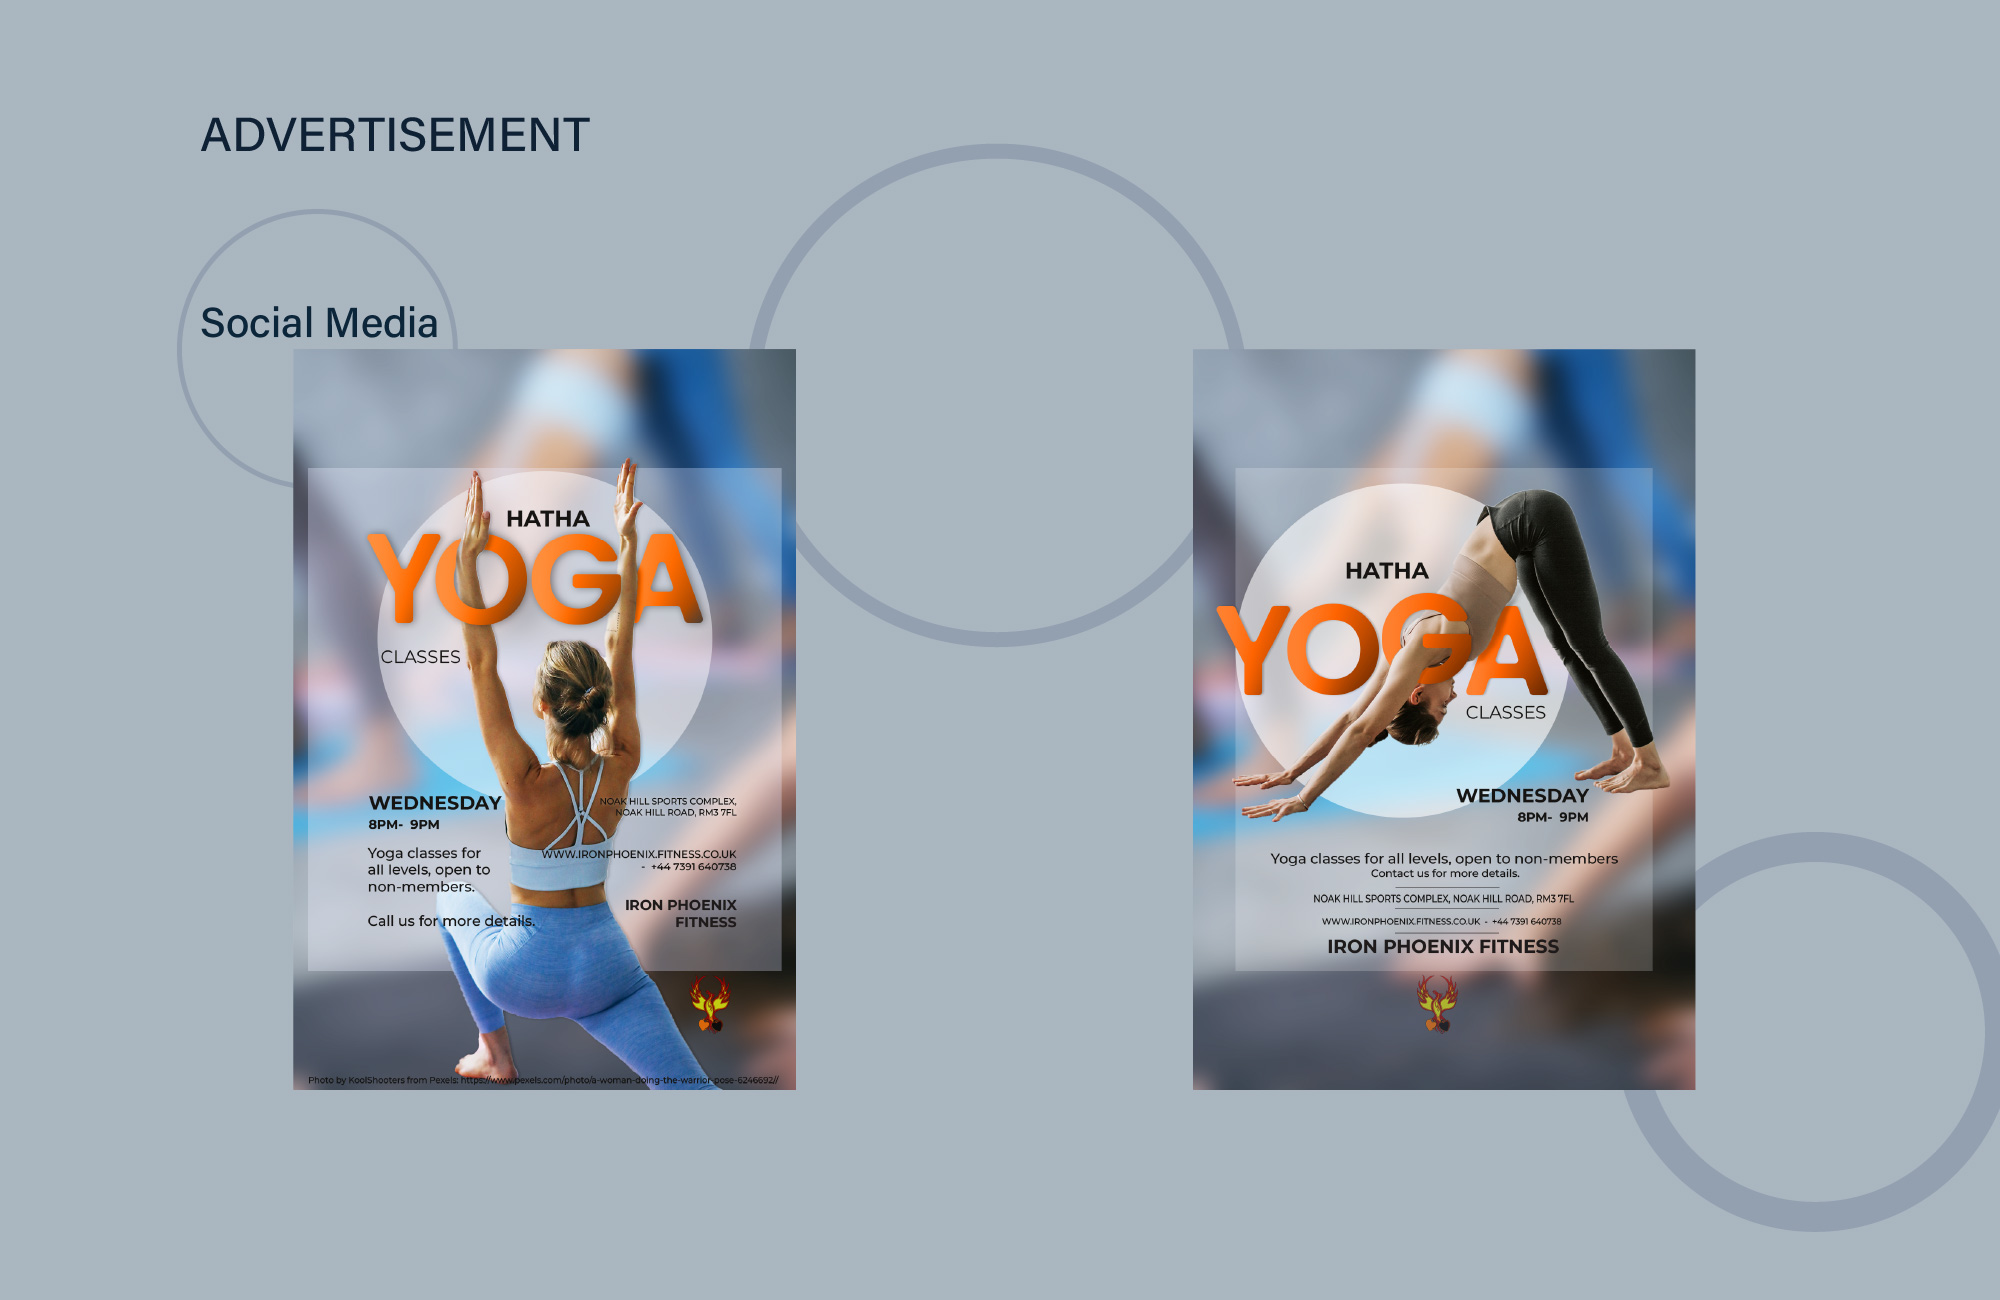
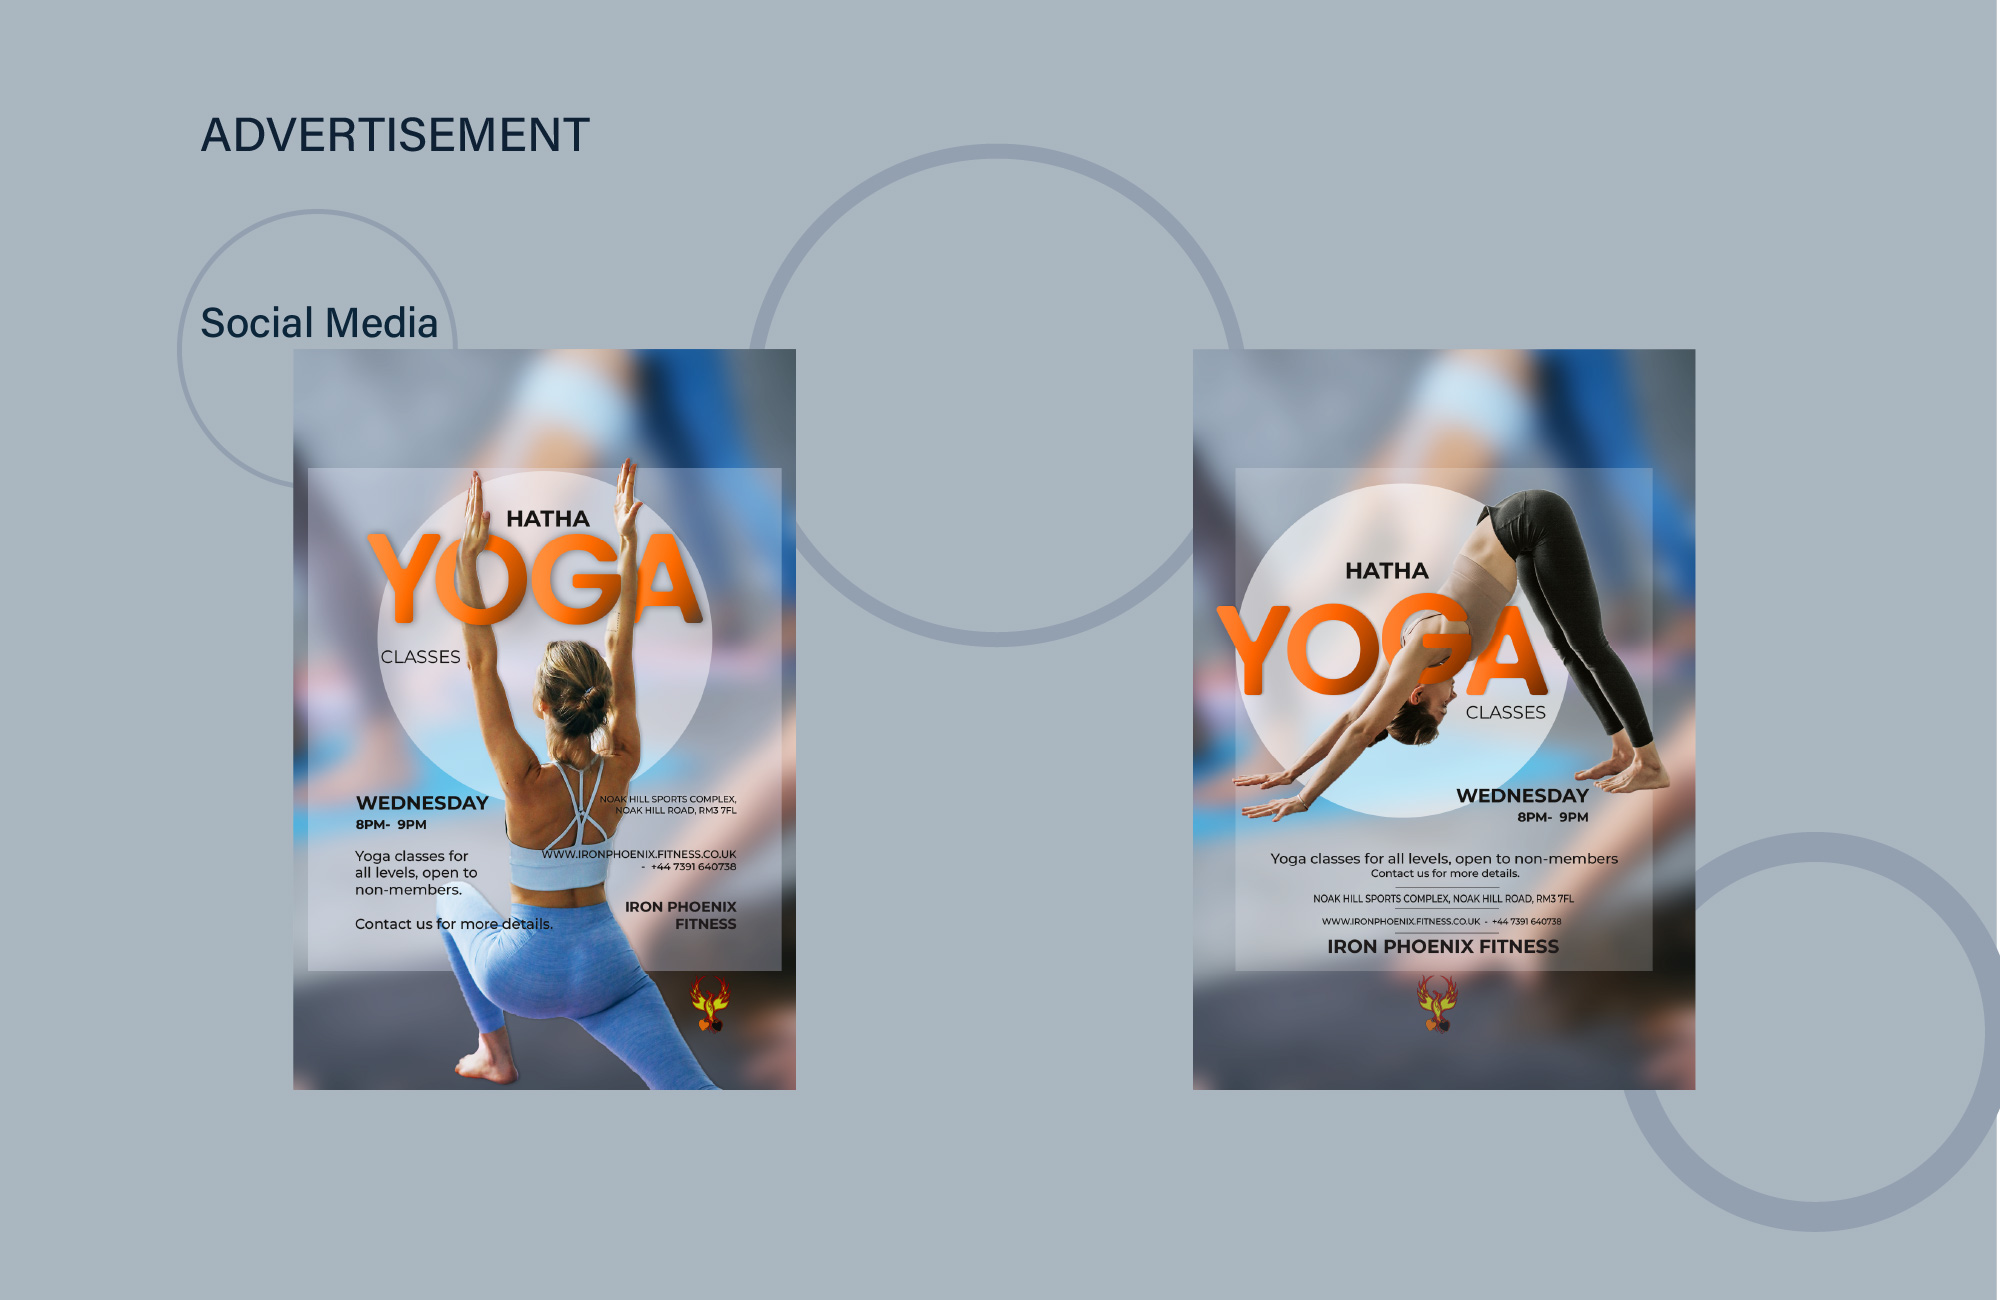
new yoga flyer added and old removed

diff --git a/lift-weights.html b/lift-weights.html
@@ -55,7 +55,7 @@
                 <h2 class="work-title pageheader lift-weight">Lift Weights</h2>
                 <h5>Logo</h5>
                 <p>Lift Weights is a fitness App. It is not built yet. The client would like to pitch to tech
-                    investors and get the funding to start development.</p>
+                    investors and get the funding to start the development.</p>
             </div>
 
             <div class="work-projects-wrapper">
